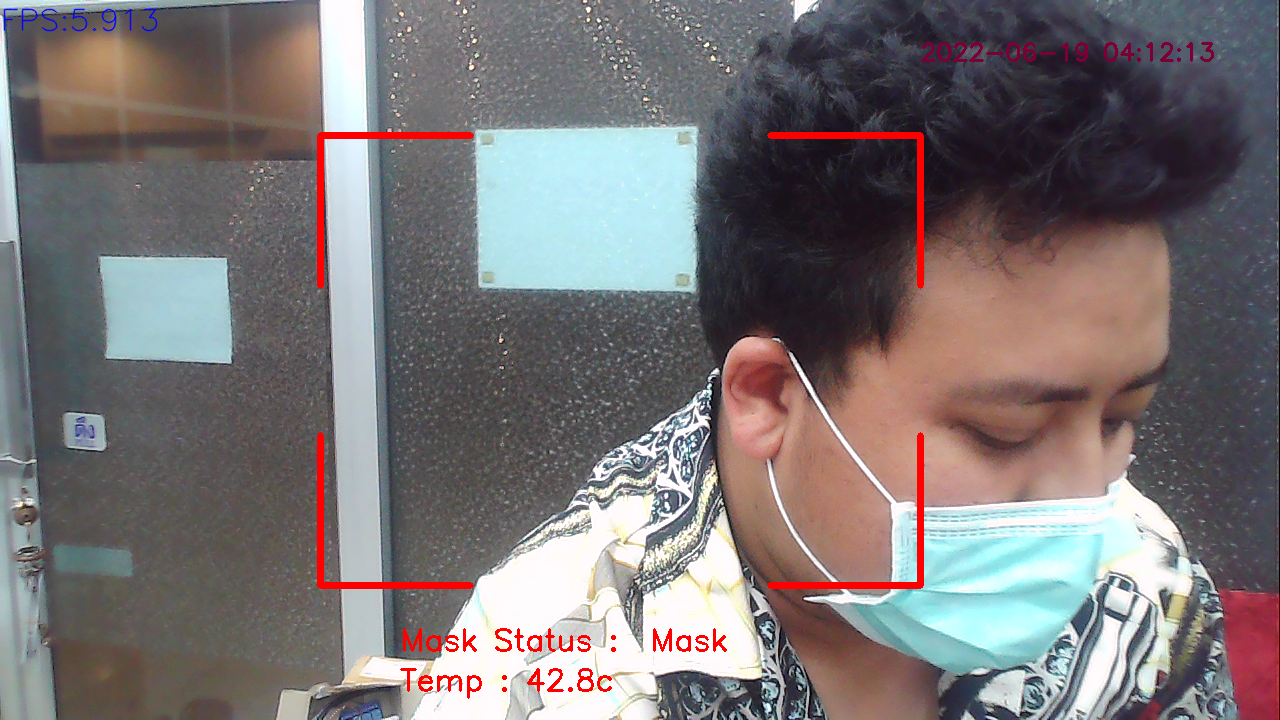
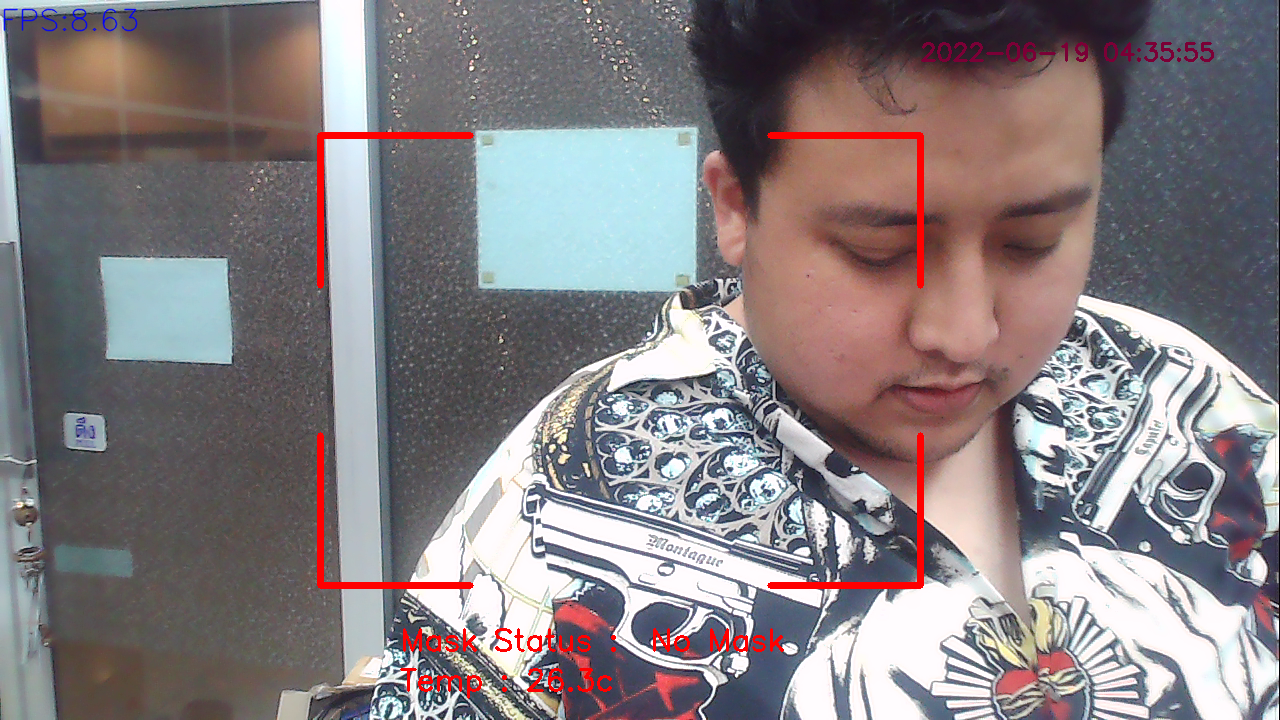
implement interaction logic

diff --git a/utils/detector.py b/utils/detector.py
@@ -114,11 +114,12 @@ servo = Servo(25)
 
 GPIO.setmode(GPIO.BCM) 
 GPIO.setup(sensor_IR ,GPIO.IN)
-led_green=18
-led_red=19
+led_green= 14
+led_red=15
 GPIO.setup(led_green ,GPIO.OUT)
 GPIO.setup(led_red ,GPIO.OUT)
-
+GPIO.output(led_red,GPIO.LOW)
+GPIO.output(led_green,GPIO.LOW)
 
 units = 'c'
 
@@ -134,7 +135,7 @@ address = 0x5a
 sensor = GY906(address,bus,units)
 #add another sensor
 #sensor2 = GY906.GY906(address,bus2,units)
-buzzer = Buzzer(17)
+buzzer = Buzzer(18)
 
 
 
@@ -265,8 +266,12 @@ class Detector():
                 cv2.putText(frame, 'FPS:{:.4}'.format(fps), (0, 30), cv2.FONT_HERSHEY_SIMPLEX, 1, (255,0,0), 1, cv2.LINE_AA)
                 cv2.imwrite("temp.png", frame)
                 #cv2.imwrite("temp.png", frame)
-                x=Thread(target=self.thread_function)
-                x.start()
+                if(temp < 37.5):  
+                    x=Thread(target=self.thread_function)
+                    x.start()
+                else:
+                    x=Thread(target=self.thread_function1)
+                    x.start()
                
                 response = self.sendApi1("temp.png"  , temp)
             '''    
